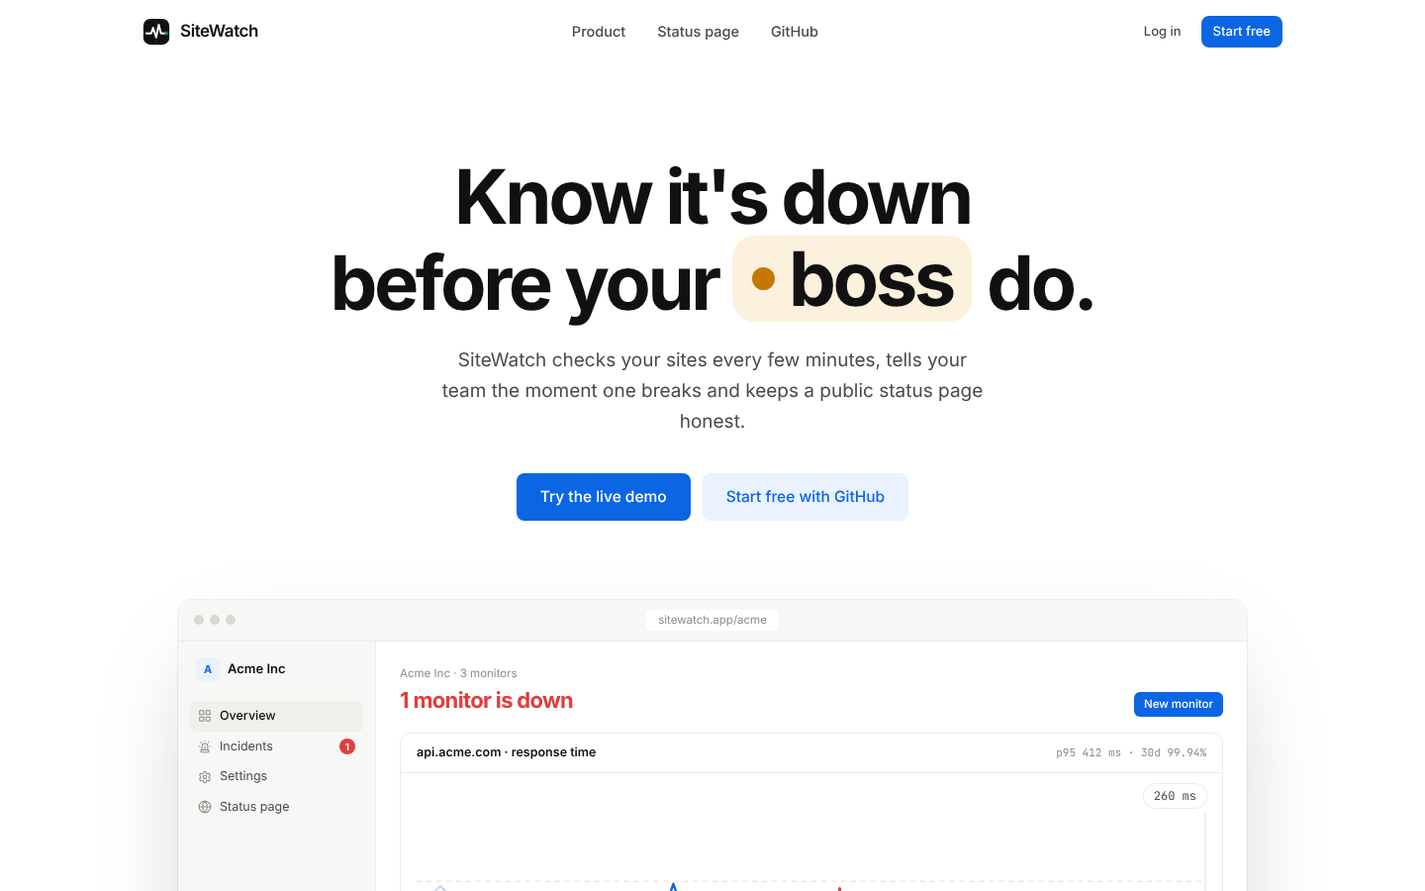
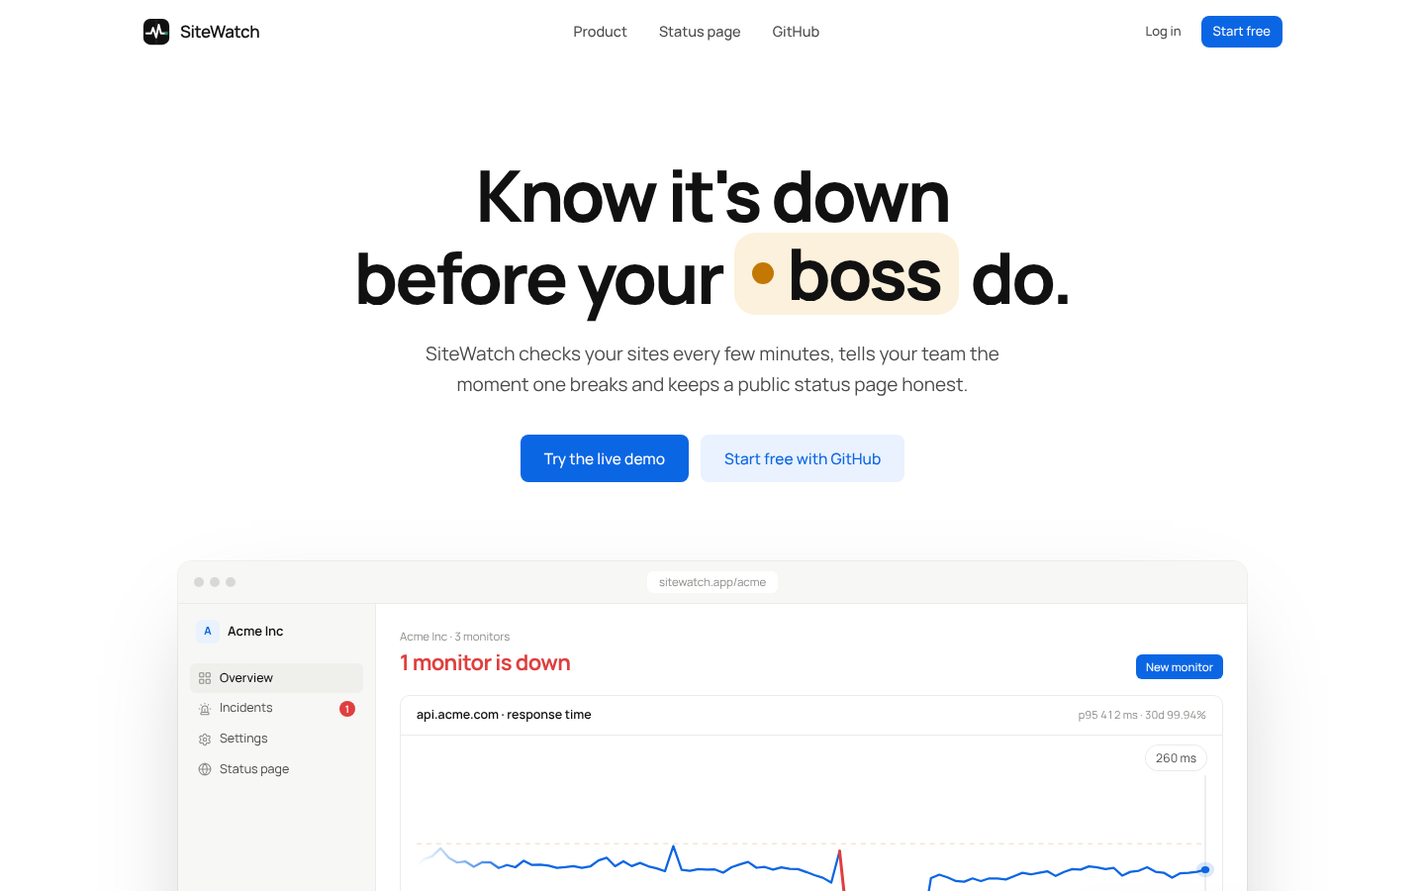
Typography: Manrope everywhere, no monospace
- Replace Inter and JetBrains Mono with Manrope
- Numbers, URLs and timestamps use tabular figures instead of a code font
- Headline weight 750 with slightly looser tracking

diff --git a/src/app/app/[ws]/monitors/[id]/page.tsx b/src/app/app/[ws]/monitors/[id]/page.tsx
@@ -65,7 +65,7 @@ export default async function MonitorPage({
         }
         description={
           <span className="flex flex-wrap items-center gap-x-3 gap-y-1">
-            <a href={monitor.url} target="_blank" rel="noreferrer noopener" className="inline-flex items-center gap-1 font-mono text-[13px] text-pen hover:underline">
+            <a href={monitor.url} target="_blank" rel="noreferrer noopener" className="inline-flex items-center gap-1 tabular text-[13px] text-pen hover:underline">
               {monitor.url}
               <ExternalLink className="size-3.5" aria-hidden />
             </a>
@@ -100,7 +100,7 @@ export default async function MonitorPage({
               <div className="text-[12.5px] font-medium text-ink-3">Uptime {window}</div>
               <div
                 className={cx(
-                  "mt-2 font-mono text-[22px] font-semibold tabular",
+                  "mt-2 tabular text-[22px] font-semibold",
                   value === null ? "text-ink-3" : value >= 99.9 ? "text-up" : value >= 99 ? "text-degraded" : "text-down",
                 )}
               >
@@ -125,7 +125,7 @@ export default async function MonitorPage({
                   href={option === "24h" ? base : `${base}?range=${option}`}
                   scroll={false}
                   className={cx(
-                    "rounded-md px-3 py-1 font-mono text-[12px] transition-colors",
+                    "rounded-md px-3 py-1 tabular text-[12px] transition-colors",
                     option === range ? "bg-surface text-ink shadow-card" : "text-ink-3 hover:text-ink",
                   )}
                 >
@@ -147,7 +147,7 @@ export default async function MonitorPage({
           ].map(([label, value], index) => (
             <div key={label as string} className={cx("px-5 py-3", index > 0 && "sm:border-l sm:border-line", index % 2 === 1 && "border-l border-line")}>
               <dt className="text-[12px] text-ink-3">{label}</dt>
-              <dd className="font-mono text-[15px] font-semibold tabular">{formatMs(value as number | null)}</dd>
+              <dd className="tabular text-[15px] font-semibold">{formatMs(value as number | null)}</dd>
             </div>
           ))}
         </dl>
@@ -165,9 +165,9 @@ export default async function MonitorPage({
           <CardHeader title="Configuration" />
           <dl className="grid gap-3 p-5 text-[13.5px]">
             <Row label="Interval" value={monitor.paused ? "Paused" : formatInterval(monitor.intervalSeconds)} />
-            <Row label="Method" value={<span className="font-mono">{monitor.method}</span>} />
-            <Row label="Expects" value={<span className="font-mono">{monitor.expectedStatus ?? "2xx / 3xx"}</span>} />
-            <Row label="Keyword" value={monitor.keyword ? <span className="font-mono">&ldquo;{monitor.keyword}&rdquo;</span> : "none"} />
+            <Row label="Method" value={<span className="tabular">{monitor.method}</span>} />
+            <Row label="Expects" value={<span className="tabular">{monitor.expectedStatus ?? "2xx / 3xx"}</span>} />
+            <Row label="Keyword" value={monitor.keyword ? <span className="tabular">&ldquo;{monitor.keyword}&rdquo;</span> : "none"} />
             <Row label="Timeout" value={`${monitor.timeoutMs / 1000} s`} />
             <Row label="Slow above" value={formatMs(monitor.degradedThresholdMs)} />
             <Row label="Last check" value={timeAgo(monitor.lastCheckedAt)} />
@@ -207,13 +207,13 @@ export default async function MonitorPage({
                 <tbody className="divide-y divide-line">
                   {detail.recentChecks.map((check) => (
                     <tr key={check.id} className="align-top">
-                      <td className="whitespace-nowrap px-5 py-2.5 font-mono text-ink-2 tabular">{formatDateTime(check.checkedAt)}</td>
+                      <td className="whitespace-nowrap px-5 py-2.5 tabular text-ink-2">{formatDateTime(check.checkedAt)}</td>
                       <td className="px-3 py-2.5">
                         <StatusPill status={check.status} label={check.status === "up" ? "Up" : undefined} />
                         {check.error ? <div className="mt-1 max-w-[260px] text-[12px] text-ink-3">{check.error}</div> : null}
                       </td>
-                      <td className="px-3 py-2.5 text-right font-mono tabular">{check.statusCode ?? "n/a"}</td>
-                      <td className="whitespace-nowrap px-5 py-2.5 text-right font-mono tabular">{formatMs(check.latencyMs)}</td>
+                      <td className="px-3 py-2.5 text-right tabular">{check.statusCode ?? "n/a"}</td>
+                      <td className="whitespace-nowrap px-5 py-2.5 text-right tabular">{formatMs(check.latencyMs)}</td>
                     </tr>
                   ))}
                 </tbody>
@@ -238,10 +238,10 @@ export default async function MonitorPage({
                     />
                     <div className="flex flex-wrap items-center gap-2 text-[13.5px] font-medium">
                       {incident.resolvedAt ? "Resolved" : "Ongoing"}
-                      <span className="font-mono text-[12px] font-normal text-ink-3">{formatDuration(end.getTime() - incident.startedAt.getTime())}</span>
+                      <span className="tabular text-[12px] font-normal text-ink-3">{formatDuration(end.getTime() - incident.startedAt.getTime())}</span>
                     </div>
                     <div className="mt-0.5 text-[13px] text-ink-2">{incident.cause}</div>
-                    <div className="mt-0.5 font-mono text-[11.5px] text-ink-3">{formatDateTime(incident.startedAt)}</div>
+                    <div className="mt-0.5 tabular text-[11.5px] text-ink-3">{formatDateTime(incident.startedAt)}</div>
                   </li>
                 );
               })}

diff --git a/src/app/status/[slug]/page.tsx b/src/app/status/[slug]/page.tsx
@@ -39,7 +39,7 @@ export default async function PublicStatusPage({ params }: { params: Promise<{ s
       <div className="mx-auto max-w-3xl px-4 py-10 sm:px-6 sm:py-16">
         <header className="mb-8 flex items-center justify-between gap-4">
           <h1 className="text-[24px] font-semibold tracking-tight sm:text-[28px]">{page.workspace.title}</h1>
-          <span className="font-mono text-[12px] text-ink-3">updated every minute</span>
+          <span className="tabular text-[12px] text-ink-3">updated every minute</span>
         </header>
 
         <div className={cx("rise-in flex items-center gap-3 rounded-[var(--radius-card)] px-5 py-4 shadow-card", banner.className)}>
@@ -57,12 +57,12 @@ export default async function PublicStatusPage({ params }: { params: Promise<{ s
                   <div className="mb-3 flex flex-wrap items-center justify-between gap-2">
                     <span className="text-[15px] font-semibold">{monitor.name}</span>
                     <div className="flex items-center gap-3">
-                      <span className="font-mono text-[12.5px] text-ink-3 tabular">{formatPercent(monitor.uptime90d, 2)} uptime</span>
+                      <span className="tabular text-[12.5px] text-ink-3">{formatPercent(monitor.uptime90d, 2)} uptime</span>
                       <StatusPill status={monitor.status} label={monitor.status === "pending" ? "Not monitored" : undefined} />
                     </div>
                   </div>
                   <UptimeBars days={monitor.days} height={34} />
-                  <div className="mt-1.5 flex justify-between font-mono text-[11px] text-ink-3">
+                  <div className="mt-1.5 flex justify-between tabular text-[11px] text-ink-3">
                     <span>90 days ago</span>
                     <span>Today</span>
                   </div>
@@ -84,7 +84,7 @@ export default async function PublicStatusPage({ params }: { params: Promise<{ s
                     <span className="text-[14px] font-semibold">{incident.monitorName} {incident.resolvedAt ? "was unavailable" : "is unavailable"}</span>
                     <StatusPill status={incident.resolvedAt ? "up" : "down"} label={incident.resolvedAt ? "Resolved" : "Investigating"} />
                   </div>
-                  <p className="mt-1 font-mono text-[12px] text-ink-3">
+                  <p className="mt-1 tabular text-[12px] text-ink-3">
                     {formatDateTime(incident.startedAt)} · {incident.resolvedAt ? "lasted" : "ongoing for"} {formatDuration((incident.resolvedAt ?? new Date()).getTime() - incident.startedAt.getTime())}
                   </p>
                 </li>

diff --git a/src/components/monitor-form.tsx b/src/components/monitor-form.tsx
@@ -65,7 +65,7 @@ export function MonitorForm({
             <Input id="name" name="name" defaultValue={val("name")} placeholder="Marketing site" autoComplete="off" aria-invalid={Boolean(errors.name)} required maxLength={60} />
           </Field>
           <Field label="URL" htmlFor="url" error={errors.url} hint="Public http or https address. https:// is added if you skip it.">
-            <Input id="url" name="url" type="url" inputMode="url" defaultValue={val("url")} placeholder="https://example.com/health" className="font-mono text-[13px]" aria-invalid={Boolean(errors.url)} required />
+            <Input id="url" name="url" type="url" inputMode="url" defaultValue={val("url")} placeholder="https://example.com/health" className="tabular text-[13px]" aria-invalid={Boolean(errors.url)} required />
           </Field>
         </div>
 
@@ -89,7 +89,7 @@ export function MonitorForm({
             </Select>
           </Field>
           <Field label="Slow above (ms)" htmlFor="degradedThresholdMs" error={errors.degradedThresholdMs} hint="Slower answers count as degraded.">
-            <Input id="degradedThresholdMs" name="degradedThresholdMs" type="number" min={200} max={30000} step={100} defaultValue={val("degradedThresholdMs")} className="font-mono" />
+            <Input id="degradedThresholdMs" name="degradedThresholdMs" type="number" min={200} max={30000} step={100} defaultValue={val("degradedThresholdMs")} className="tabular" />
           </Field>
         </div>
 
@@ -112,7 +112,7 @@ export function MonitorForm({
               </Select>
             </Field>
             <Field label="Expected status" htmlFor="expectedStatus" error={errors.expectedStatus} hint="Empty means any 2xx or 3xx.">
-              <Input id="expectedStatus" name="expectedStatus" type="number" min={100} max={599} defaultValue={val("expectedStatus")} placeholder="200" className="font-mono" />
+              <Input id="expectedStatus" name="expectedStatus" type="number" min={100} max={599} defaultValue={val("expectedStatus")} placeholder="200" className="tabular" />
             </Field>
             <Field label="Must contain" htmlFor="keyword" error={errors.keyword} hint="Text that has to appear in the response (GET only).">
               <Input id="keyword" name="keyword" defaultValue={val("keyword")} placeholder="Welcome" maxLength={200} />

diff --git a/src/components/settings-forms.tsx b/src/components/settings-forms.tsx
@@ -75,7 +75,7 @@ export function GeneralSettingsForm({
               type="url"
               defaultValue={v?.webhookUrl ?? defaults.webhookUrl ?? ""}
               placeholder="https://hooks.slack.com/services/…"
-              className="font-mono text-[13px]"
+              className="tabular text-[13px]"
               aria-invalid={Boolean(errors.webhookUrl)}
             />
           </Field>
@@ -133,7 +133,7 @@ export function InviteForm({ action }: { action: (state: FormState & { link?: st
         <div className="rise-in grid gap-2 rounded-[var(--radius-ctl)] border border-pen/30 bg-pen-soft/40 p-3">
           <p className="text-[12.5px] text-ink-2">{state.message}</p>
           <div className="flex gap-2">
-            <Input readOnly value={fullLink} className="font-mono text-[12px]" onFocus={(event) => event.currentTarget.select()} aria-label="Invite link" />
+            <Input readOnly value={fullLink} className="tabular text-[12px]" onFocus={(event) => event.currentTarget.select()} aria-label="Invite link" />
             <Button
               type="button"
               variant="secondary"
@@ -199,10 +199,10 @@ export function DangerZone({
       {isOwner ? (
         <form action={formAction} className="mt-3 grid gap-3">
           <p className="text-[13.5px] text-ink-2">
-            Deleting the workspace removes every monitor, check, incident and member. Type <span className="font-mono font-semibold text-ink">{slug}</span> to confirm.
+            Deleting the workspace removes every monitor, check, incident and member. Type <span className="tabular font-semibold text-ink">{slug}</span> to confirm.
           </p>
           <div className="flex flex-wrap gap-2">
-            <Input name="confirm" autoComplete="off" placeholder={slug} className="max-w-xs font-mono text-[13px]" aria-label="Workspace slug" />
+            <Input name="confirm" autoComplete="off" placeholder={slug} className="max-w-xs tabular text-[13px]" aria-label="Workspace slug" />
             <Button type="submit" variant="danger" disabled={pending}>
               {pending ? <Loader2 className="size-4 animate-spin" aria-hidden /> : <Trash2 className="size-4" aria-hidden />}
               Delete workspace

diff --git a/src/components/landing/product-window.tsx b/src/components/landing/product-window.tsx
@@ -80,7 +80,7 @@ export function ProductWindow() {
             <div className="mt-4 rounded-[10px] border border-line">
               <div className="flex flex-wrap items-center justify-between gap-2 border-b border-line px-4 py-2.5">
                 <span className="text-[12.5px] font-semibold">api.acme.com · response time</span>
-                <span className="font-mono text-[11px] text-ink-3">p95 412 ms · 30d 99.94%</span>
+                <span className="tabular text-[11px] text-ink-3">p95 412 ms · 30d 99.94%</span>
               </div>
               <div className="px-3 pb-3 pt-10 sm:px-4">
                 <RecorderTrace className="h-[130px] w-full sm:h-[170px]" />
@@ -94,7 +94,7 @@ export function ProductWindow() {
                     <span className={`size-2 shrink-0 rounded-full ${toneBg[row.status]}`} aria-hidden />
                     <div className="min-w-0">
                       <div className="truncate text-[12.5px] font-semibold">{row.name}</div>
-                      <div className="truncate font-mono text-[10.5px] text-ink-3">{row.host}</div>
+                      <div className="truncate tabular text-[10.5px] text-ink-3">{row.host}</div>
                     </div>
                   </div>
                   <div className="hidden h-5 items-end gap-[2px] sm:flex" aria-hidden>
@@ -103,7 +103,7 @@ export function ProductWindow() {
                     ))}
                   </div>
                   <div className="text-right">
-                    <div className={`font-mono text-[11.5px] font-semibold tabular ${row.status === "down" ? "text-down" : "text-ink"}`}>{row.ms}</div>
+                    <div className={`text-[11.5px] font-semibold tabular ${row.status === "down" ? "text-down" : "text-ink"}`}>{row.ms}</div>
                     <div className={`text-[10.5px] ${toneText[row.status === "down" ? "down" : "up"]}`}>{row.uptime}</div>
                   </div>
                 </li>

diff --git a/src/app/app/[ws]/page.tsx b/src/app/app/[ws]/page.tsx
@@ -131,7 +131,7 @@ function MonitorRow({ monitor, slug, index }: { monitor: MonitorSummary; slug: s
               <ArrowUpRight className="size-3.5 shrink-0 text-ink-3 opacity-0 transition-opacity group-hover:opacity-100" aria-hidden />
             </div>
             <div className="mt-0.5 flex flex-wrap items-center gap-x-2 text-[12.5px] text-ink-3">
-              <span className="truncate font-mono">{hostOf(monitor.url)}</span>
+              <span className="truncate tabular">{hostOf(monitor.url)}</span>
               <span aria-hidden>·</span>
               <span>{monitor.paused ? "paused" : formatInterval(monitor.intervalSeconds)}</span>
               <span aria-hidden className="hidden sm:inline">·</span>
@@ -145,7 +145,7 @@ function MonitorRow({ monitor, slug, index }: { monitor: MonitorSummary; slug: s
 
         <div className="flex items-center gap-3">
           <Sparkline values={monitor.sparkline} status={status} width={88} height={28} />
-          <span className="whitespace-nowrap font-mono text-[12.5px] text-ink-2 tabular">{formatMs(monitor.lastLatencyMs)}</span>
+          <span className="whitespace-nowrap tabular text-[12.5px] text-ink-2">{formatMs(monitor.lastLatencyMs)}</span>
         </div>
 
         <UptimeBars days={monitor.days} height={26} />
@@ -154,7 +154,7 @@ function MonitorRow({ monitor, slug, index }: { monitor: MonitorSummary; slug: s
           <span className="text-[12px] text-ink-3 md:hidden">30-day uptime</span>
           <span
             className={cx(
-              "font-mono text-[14px] font-semibold tabular",
+              "tabular text-[14px] font-semibold",
               monitor.uptime30d === null ? "text-ink-3" : monitor.uptime30d >= 99.9 ? "text-up" : monitor.uptime30d >= 99 ? "text-degraded" : "text-down",
             )}
           >

diff --git a/src/components/charts/latency-chart.tsx b/src/components/charts/latency-chart.tsx
@@ -111,7 +111,7 @@ export function LatencyChart({ points, range }: { points: LatencyPoint[]; range:
         {chart.yTicks.map((tick) => (
           <g key={tick.value}>
             <line x1={PAD.left} x2={width - PAD.right} y1={tick.y} y2={tick.y} stroke="var(--line)" strokeDasharray={tick.value === 0 ? undefined : "2 4"} />
-            <text x={PAD.left - 8} y={tick.y + 4} textAnchor="end" className="fill-ink-3 font-mono text-[10px]">
+            <text x={PAD.left - 8} y={tick.y + 4} textAnchor="end" className="fill-ink-3 tabular text-[10px]">
               {tick.value >= 1000 ? `${(tick.value / 1000).toFixed(1)}s` : `${tick.value}`}
             </text>
           </g>
@@ -123,7 +123,7 @@ export function LatencyChart({ points, range }: { points: LatencyPoint[]; range:
             x={tick.x}
             y={HEIGHT - 8}
             textAnchor={tick.index === 0 ? "start" : tick.index === points.length - 1 ? "end" : "middle"}
-            className="fill-ink-3 font-mono text-[10px]"
+            className="fill-ink-3 tabular text-[10px]"
           >
             {tick.label}
           </text>
@@ -174,7 +174,7 @@ export function LatencyChart({ points, range }: { points: LatencyPoint[]; range:
           <div className="font-medium">
             {new Date(hovered.t).toLocaleString(undefined, { day: "numeric", month: "short", hour: "2-digit", minute: "2-digit" })}
           </div>
-          <div className="mt-1 grid grid-cols-[auto_auto] gap-x-3 font-mono text-ink-2 tabular">
+          <div className="mt-1 grid grid-cols-[auto_auto] gap-x-3 tabular text-ink-2">
             <span className="text-ink-3">avg</span>
             <span>{formatMs(hovered.avg)}</span>
             <span className="text-ink-3">max</span>

diff --git a/src/app/page.tsx b/src/app/page.tsx
@@ -53,10 +53,10 @@ export default async function LandingPage() {
         {/* Hero: one statement, one action, then the product itself. */}
         <section className="mx-auto max-w-[1200px] px-4 pt-16 text-center sm:px-6 sm:pt-24">
           <Reveal>
-            <h1 className="display mx-auto text-[42px] sm:text-[60px] lg:text-[76px]">
+            <h1 className="display mx-auto text-[40px] sm:text-[54px] lg:text-[64px] xl:text-[72px]">
               Know it&apos;s down
               <br />
-              <span className="sm:whitespace-nowrap">
+              <span className="xl:whitespace-nowrap">
                 before your <RotatingWord /> do.
               </span>
             </h1>
@@ -170,7 +170,7 @@ export default async function LandingPage() {
                   <strong className="font-semibold text-ink">Postgres with Drizzle.</strong> Uptime and charts are aggregated in SQL, not in the browser.
                 </li>
                 <li>
-                  <strong className="font-semibold text-ink">Safe scheduler.</strong> Monitors are claimed with <code className="font-mono text-[13px]">FOR UPDATE SKIP LOCKED</code>, so overlapping runs never double-check.
+                  <strong className="font-semibold text-ink">Safe scheduler.</strong> Monitors are claimed with <code className="tabular text-[13px]">FOR UPDATE SKIP LOCKED</code>, so overlapping runs never double-check.
                 </li>
                 <li>
                   <strong className="font-semibold text-ink">SSRF protection.</strong> Private and cloud-metadata addresses are refused on every redirect hop.

diff --git a/src/app/globals.css b/src/app/globals.css
@@ -5,7 +5,7 @@
   Art direction: "Calm workspace".
   White pages, warm-grey surfaces, heavy tight headlines, one blue for actions.
   Status colours (green, amber, red) are only ever used for status.
-  Inter for everything people read; JetBrains Mono only for data (latency, URLs, timestamps).
+  Manrope for everything, numbers set with tabular figures so columns line up. No monospace.
 */
 
 :root {
@@ -85,8 +85,7 @@
   --color-down-soft: var(--down-soft);
   --color-pending: var(--pending);
   --color-night: var(--night);
-  --font-sans: "Inter Variable", ui-sans-serif, system-ui, -apple-system, "Segoe UI", sans-serif;
-  --font-mono: "JetBrains Mono Variable", ui-monospace, "SFMono-Regular", monospace;
+  --font-sans: "Manrope Variable", ui-sans-serif, system-ui, -apple-system, "Segoe UI", sans-serif;
   --radius-card: 12px;
   --radius-ctl: 8px;
   --shadow-card: var(--shadow-card);
@@ -103,7 +102,6 @@ body {
   background: var(--paper);
   color: var(--ink);
   font-family: var(--font-sans);
-  font-feature-settings: "cv11", "ss01", "ss03";
 }
 
 /* Kept as a hook for page backgrounds; the look is now a plain page. */
@@ -111,10 +109,11 @@ body {
   background-color: var(--paper);
 }
 
+/* Big headlines: Manrope at 750, between Figtree's softness and Manrope's 800 punch. */
 .display {
-  font-weight: 700;
-  letter-spacing: -0.045em;
-  line-height: 1.02;
+  font-weight: 750;
+  letter-spacing: -0.04em;
+  line-height: 1.04;
 }
 
 .tabular {

diff --git a/src/app/app/[ws]/incidents/page.tsx b/src/app/app/[ws]/incidents/page.tsx
@@ -55,16 +55,16 @@ export default async function IncidentsPage({ params }: { params: Promise<{ ws: 
                         <StatusPill status={incident.resolvedAt ? "up" : "down"} label={incident.resolvedAt ? "Resolved" : "Ongoing"} />
                       </div>
                       <div className="mt-1 text-[13px] text-ink-2">{incident.cause}</div>
-                      <div className="mt-0.5 truncate font-mono text-[12px] text-ink-3">{hostOf(incident.monitorUrl)}</div>
+                      <div className="mt-0.5 truncate tabular text-[12px] text-ink-3">{hostOf(incident.monitorUrl)}</div>
                     </div>
                     <div className="flex gap-6 text-[12.5px] sm:text-right">
                       <div>
                         <div className="text-ink-3">Started</div>
-                        <div className="font-mono tabular">{formatDateTime(incident.startedAt)}</div>
+                        <div className="tabular">{formatDateTime(incident.startedAt)}</div>
                       </div>
                       <div>
                         <div className="text-ink-3">Duration</div>
-                        <div className="font-mono tabular">{formatDuration(end.getTime() - incident.startedAt.getTime())}</div>
+                        <div className="tabular">{formatDuration(end.getTime() - incident.startedAt.getTime())}</div>
                       </div>
                     </div>
                   </Link>

diff --git a/src/components/landing/feature-visuals.tsx b/src/components/landing/feature-visuals.tsx
@@ -49,7 +49,7 @@ export function PipelineVisual() {
           className={`flex items-center justify-between rounded-lg border px-3 py-2 text-[12.5px] ${step.tone}`}
         >
           <span className="font-semibold">{step.label}</span>
-          <span className="font-mono text-[11.5px] opacity-80">{step.detail}</span>
+          <span className="tabular text-[11.5px] opacity-80">{step.detail}</span>
         </motion.div>
       ))}
     </div>
@@ -100,7 +100,7 @@ export function TeamVisual() {
     <div className="flex flex-wrap gap-2">
       {people.map((person) => (
         <span key={person.role} className="inline-flex items-center gap-2 rounded-full border border-line bg-surface py-1 pl-1 pr-3 text-[12.5px]">
-          <span className={`grid size-6 place-items-center rounded-full font-mono text-[11px] font-semibold ${person.color}`}>{person.initial}</span>
+          <span className={`grid size-6 place-items-center rounded-full tabular text-[11px] font-semibold ${person.color}`}>{person.initial}</span>
           {person.role}
         </span>
       ))}

diff --git a/src/app/error.tsx b/src/app/error.tsx
@@ -12,10 +12,10 @@ export default function ErrorPage({ error, reset }: { error: Error & { digest?: 
   return (
     <main className="graph-paper grid min-h-[70dvh] flex-1 place-items-center px-4">
       <div className="max-w-md text-center">
-        <p className="font-mono text-[13px] uppercase tracking-[0.18em] text-down">Incident detected</p>
+        <p className="tabular text-[13px] uppercase tracking-[0.18em] text-down">Incident detected</p>
         <h1 className="mt-3 text-[24px] font-semibold tracking-tight">Something broke on our side</h1>
         <p className="mt-2 text-[14.5px] text-ink-2">
-          The error was logged{error.digest ? <> with reference <span className="font-mono">{error.digest}</span></> : null}. Try again in a moment.
+          The error was logged{error.digest ? <> with reference <span className="tabular">{error.digest}</span></> : null}. Try again in a moment.
         </p>
         <Button className="mt-6" onClick={reset}>
           Try again
